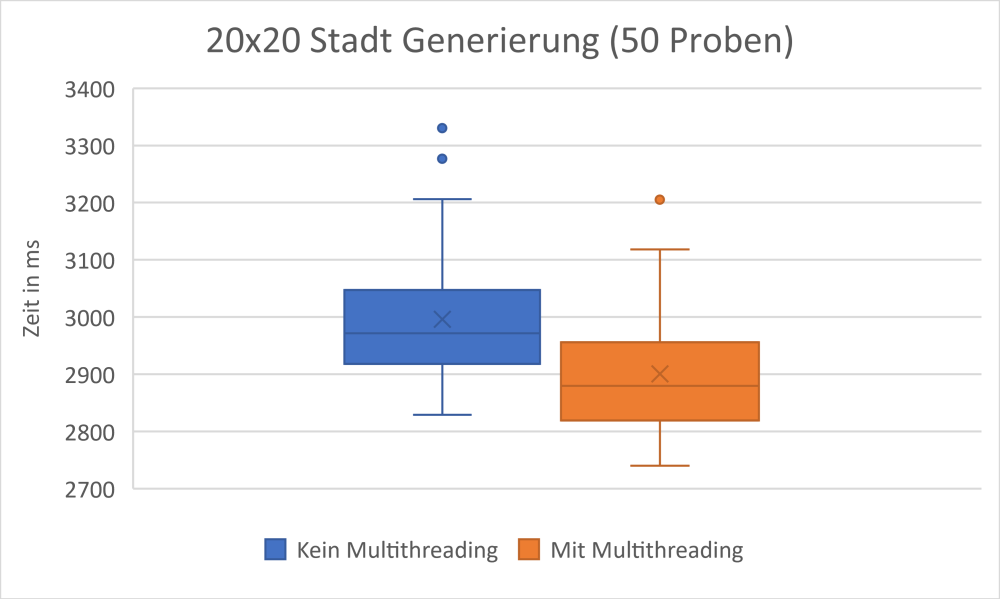
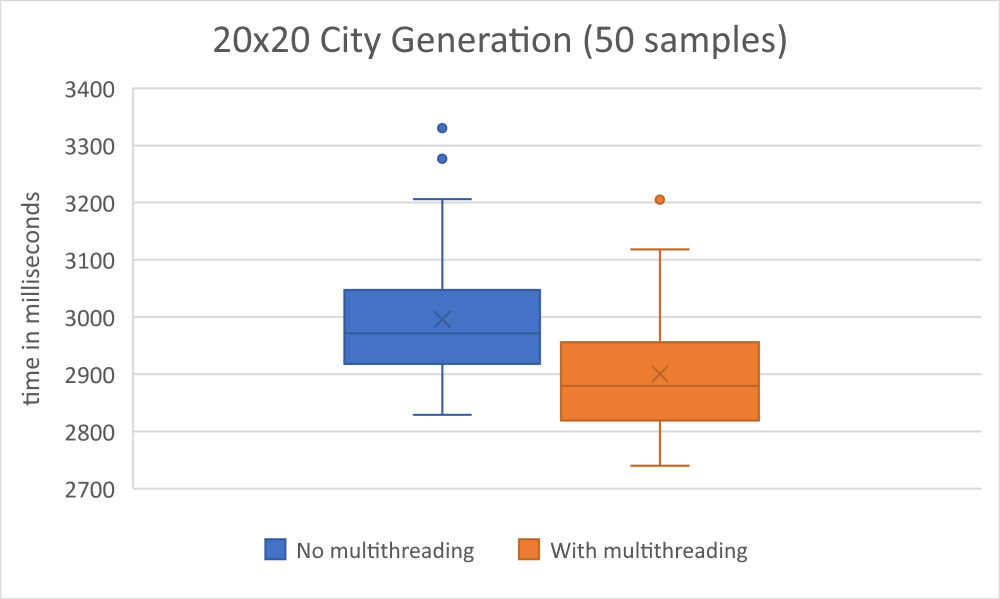
Add thumbnails, gifs, and skim-reader summary to README
Add thumbnail and demo gif images for city generation and pedestrian AI.
Add a top-of-README summary of what was built from scratch.
Split the generator tool screenshot into two images and drop the old one.

diff --git a/README.md b/README.md
@@ -1,5 +1,9 @@
 # City Simulator
 
+| | |
+| :---: | :---: |
+| ![City thumbnail](docs/thumbnail1.png) | ![Pedestrians thumbnail](docs/thumbnail2.png) |
+
 A small Unity city that generates itself and fills with pedestrians who live their own little lives: walking to destinations, stopping to listen to a street busker, sitting down on a park bench, and hurrying indoors when it starts to rain.
 
 This was my final project for the **Games Programming Diploma** at the SAE Institute (2023). It is a **learning project**: the whole thing exists so I could implement, and properly understand, two techniques from scratch: **Wave Function Collapse** for procedural generation and a **Finite State Machine** for agent behavior. Both are explained below.
@@ -7,6 +11,16 @@ This was my final project for the **Games Programming Diploma** at the SAE Insti
 - **Engine:** Unity `2021.3.21f1` (Universal Render Pipeline, C#)
 - **Scenes:** `CityGeneration` (watch a city build itself) and `CityDemo` (a pre-built city populated with pedestrians)
 - **Own code:** `Assets/Scripts` and `Assets/GameManager.cs`; everything else under `Assets/` (Synty POLYGON City, Quibli, TextMesh Pro) is third-party art/tooling used to make it look nice.
+
+---
+
+**What I built from scratch / learned:**
+
+- **Wave Function Collapse** procedural generation, implemented from scratch and driven entirely by ScriptableObjects.
+- A custom **Unity Editor tool** for authoring the tile set and its adjacency rules without touching code.
+- A **Finite State Machine** driving pedestrian behavior (walking, sitting, listening, sheltering indoors).
+- A **weather system** wired into the FSM via events, so rain visibly clears the streets.
+- A **multithreading experiment** on the constraint propagation, benchmarked.
 
 ---
 
@@ -27,6 +41,8 @@ My implementation lives in `Assets/Scripts/Generation` and is driven entirely by
 
 Generation runs as a coroutine (one collapse per frame), so in the `CityGeneration` scene you can literally watch the city resolve itself tile by tile.
 
+![City generating itself tile by tile](docs/generation.gif)
+
 > **A note on the code:** tile selection during a collapse is currently a uniform random pick from the remaining candidates. The per-neighbor `probability` fields exist in the data model for weighting adjacencies, but the weighting itself was left as a `// TODO`, an honest edge of the learning project.
 
 ![Wave Function Collapse concept](docs/wavefunctioncollapse.png)
@@ -42,7 +58,9 @@ To make the tile set editable without recompiling, I built a custom Unity Editor
 
 The window has tabs for general settings and per-tile settings, and can create, rename, duplicate, and delete these assets directly.
 
-![Generator tool sketch](docs/engine-tool.png)
+| Generator Settings | Tile Settings |
+| :---: | :---: |
+| ![Generator tool sketch](docs/enginetool1.png) | ![Generator tool sketch](docs/enginetool2.png) |
 
 *Sketch of the tool's two tabs: Generator Settings (width, height, tiles) and Tile Settings (the allowed neighbors in each direction).*
 
@@ -55,8 +73,6 @@ The honest result: it helped, but only a little. Across repeated runs the multit
 | 20×20 generation (50 samples) | 50×50 generation (20 samples) |
 | :---: | :---: |
 | ![20x20 benchmark](docs/benchmark-20x20.png) | ![50x50 benchmark](docs/benchmark-50x50.png) |
-
-*In the charts, "Kein Multithreading" = without multithreading, "Mit Multithreading" = with multithreading; the vertical axis is time in milliseconds.*
 
 ---
 
@@ -84,6 +100,8 @@ Agents don't decide to sit or listen on their own; trigger volumes (`AgentTrigge
 ### Weather ties it together
 
 `WeatherManager` toggles rain across the city (and a URP color-grading shift) and raises an event when the weather changes. The FSM listens: when it starts raining, pedestrians switch to a run animation and hurry off the benches and away from the busker toward the nearest building, so the streets visibly empty out during a downpour.
+
+![Pedestrians moving and reacting to the weather](docs/pedestrian.gif)
 
 ### UML class diagram
 
@@ -131,5 +149,3 @@ Assets/
 │  └─ UIManager.cs         # timescale slider, rain toggle
 └─ GameManager.cs
 ```
-
-Open the project in Unity `2021.3.21f1`, then load the `CityGeneration` scene to watch a city build itself, or `CityDemo` to see a finished city populated with pedestrians.